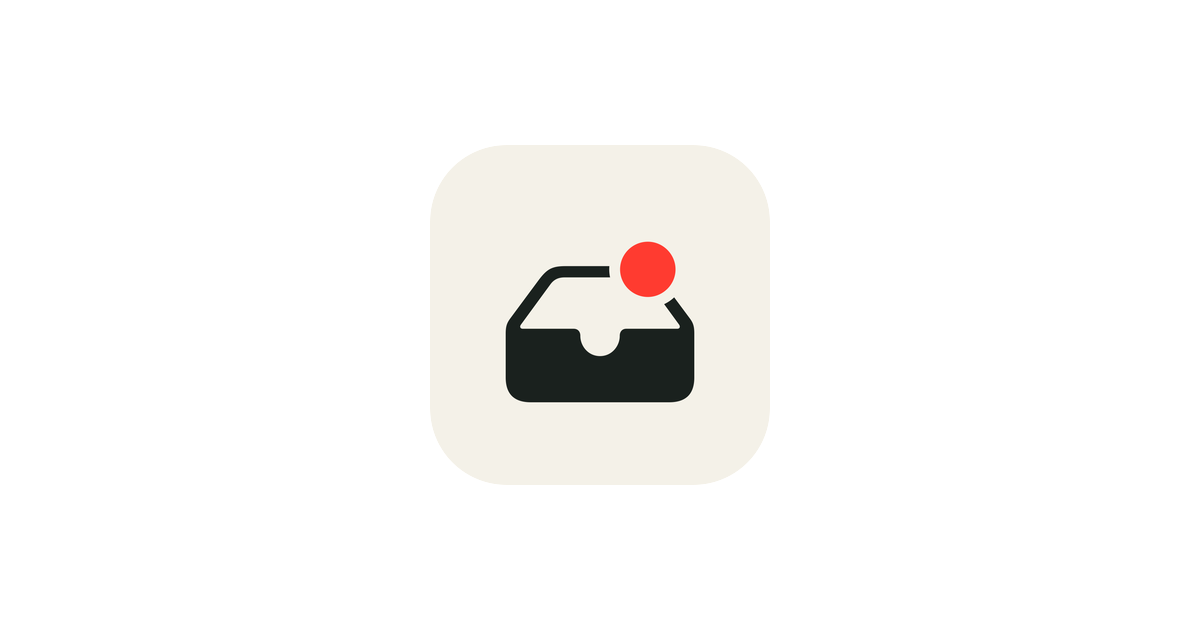
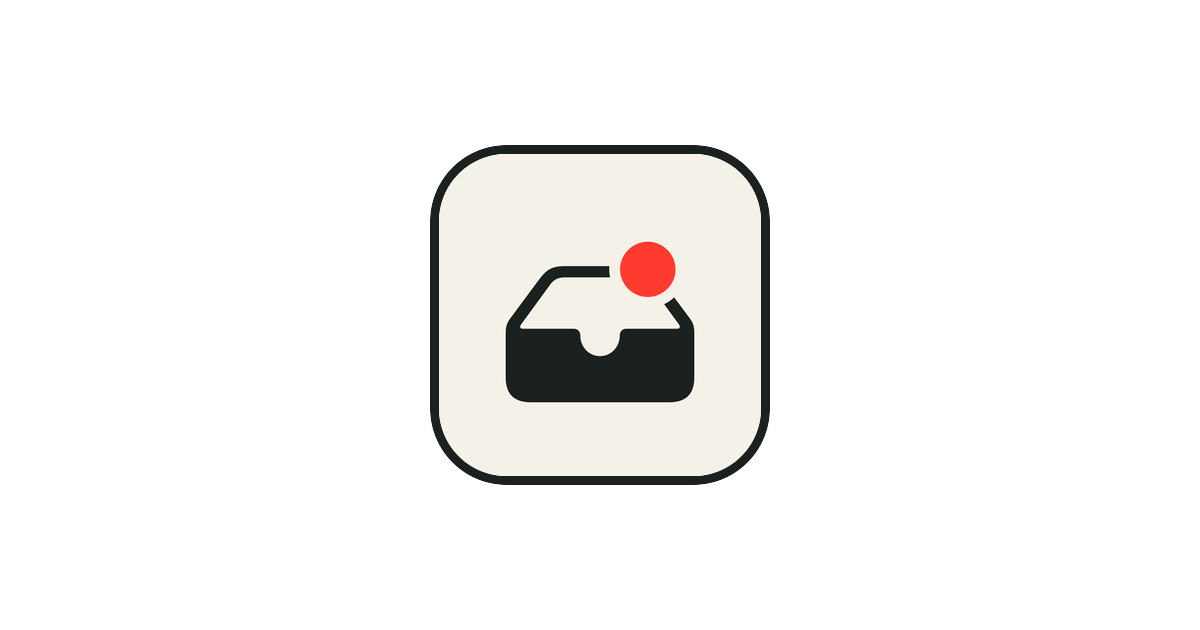
fixes

Changed region(s): [[0.4008, 0.2714, 0.6475, 0.7841], [0.37, 0.2111, 0.6167, 0.3016], [0.3392, 0.3016, 0.4008, 0.754]]

diff --git a/karui.html b/karui.html
@@ -14,8 +14,8 @@
   <meta property="og:url" content="https://karui.jp/">
   <meta property="og:site_name" content="Karui">
   <meta property="og:description" content="Runs privately and entirely on your device using Apple Intelligence." data-label-en="Runs privately and entirely on your device using Apple Intelligence." data-label-ja="Apple Intelligenceを使い、完全にデバイス上でプライベートに動作します。">
-  <meta property="og:image" content="https://karui.jp/assets/karui-social.png?v=4">
-  <meta property="og:image:secure_url" content="https://karui.jp/assets/karui-social.png?v=4">
+  <meta property="og:image" content="https://karui.jp/assets/karui-social.png?v=5">
+  <meta property="og:image:secure_url" content="https://karui.jp/assets/karui-social.png?v=5">
   <meta property="og:image:type" content="image/png">
   <meta property="og:image:width" content="1200">
   <meta property="og:image:height" content="630">
@@ -23,7 +23,7 @@
   <meta name="twitter:card" content="summary_large_image">
   <meta name="twitter:title" content="Silence unwanted notifications. Reveal unsent messages." data-label-en="Silence unwanted notifications. Reveal unsent messages." data-label-ja="不要な通知を消音。送信されなかったメッセージを確認。">
   <meta name="twitter:description" content="Runs privately and entirely on your device using Apple Intelligence." data-label-en="Runs privately and entirely on your device using Apple Intelligence." data-label-ja="Apple Intelligenceを使い、完全にデバイス上でプライベートに動作します。">
-  <meta name="twitter:image" content="https://karui.jp/assets/karui-social.png?v=4">
+  <meta name="twitter:image" content="https://karui.jp/assets/karui-social.png?v=5">
   <meta name="twitter:image:alt" content="Karui with the message Silence unwanted notifications. Reveal unsent messages." data-label-en="Karui with the message Silence unwanted notifications. Reveal unsent messages." data-label-ja="「不要な通知を消音。送信されなかったメッセージを確認。」というメッセージを添えたKaruiのプレビュー">
   <style>
     :root {
@@ -39,7 +39,7 @@
 
     body.sasu-site { background: #fff; }
     .sasu-page { padding-top: 8pt; padding-bottom: 24pt; }
-    .karui-icon { border-radius: 12px; }
+    .karui-icon { box-sizing: border-box; border: 1px solid var(--karui-ink); border-radius: 12px; }
     .sasu-hero .download-link { margin-top: 9pt; }
     .karui-detail { padding: 6pt 0 5pt; }
     .karui-detail p { margin: 0; }

diff --git a/index.html b/index.html
@@ -5,6 +5,8 @@
   <meta charset="utf-8">
   <script src="https://challenges.cloudflare.com/turnstile/v0/api.js?render=explicit" async defer></script>
   <title>Justin Garcia — iOS and Speech AI Engineer in Tokyo</title>
+  <link rel="icon" href="assets/karui-favicon.png?v=1" type="image/png">
+  <link rel="shortcut icon" href="assets/karui-favicon.png?v=1" type="image/png">
   <link href='style.css?v=141' rel='stylesheet'>
   <style>
     /* Preview: Ume face, sized to the window title (About) */
@@ -259,7 +261,7 @@
                 data-browser-title-ja="Kehai"
                 aria-label="Open Kehai"
               >
-                <img class="stack-product-icon-compact stack-product-icon-bordered" src="assets/kehai-icon.png?v=2" alt="Kehai app icon">
+                <img class="stack-product-icon-bordered" src="assets/kehai-icon-home.png?v=1" alt="Kehai app icon">
               </a>
               <div class="stack-product-copy">
                 <strong class="stack-product-name">Kehai:</strong>
@@ -278,7 +280,7 @@
                 data-browser-title-ja="Karui"
                 aria-label="Open Karui"
               >
-                <img class="stack-product-icon-compact stack-product-icon-bordered" src="assets/karui-icon.png?v=2" alt="Karui app icon">
+                <img class="stack-product-icon-bordered" src="assets/karui-icon-home.png?v=1" alt="Karui app icon">
               </a>
               <div class="stack-product-copy">
                 <strong class="stack-product-name">Karui:</strong>
@@ -335,7 +337,7 @@
                 data-browser-title-ja="Yubi"
                 aria-label="Open Yubi"
               >
-                <img class="stack-product-icon-compact stack-product-icon-bordered" src="assets/yubi-icon.png?v=1" alt="Yubi app icon">
+                <img class="stack-product-icon-bordered" src="assets/yubi-icon.png?v=1" alt="Yubi app icon">
               </a>
               <div class="stack-product-copy">
                 <strong class="stack-product-name">Yubi:</strong>
@@ -354,7 +356,7 @@
                 data-browser-title-ja="Kotai"
                 aria-label="Open Kotai"
               >
-                <img class="stack-product-icon-compact stack-product-icon-bordered" src="assets/kotai-icon.png?v=10" alt="Kotai app icon">
+                <img class="stack-product-icon-bordered" src="assets/kotai-icon.png?v=10" alt="Kotai app icon">
               </a>
               <div class="stack-product-copy">
                 <strong class="stack-product-name">Kotai:</strong>

diff --git a/style.css b/style.css
@@ -3566,12 +3566,9 @@ html[data-theme="classic"] .recent-updates-button[aria-pressed="true"]:hover {
 
 
 
-html body.home-page .stack-product-button img.stack-product-icon-compact {
-  width: 38px;
-  height: 38px;
-}
-
 html body.home-page .stack-product-button img.stack-product-icon-bordered {
   box-sizing: border-box;
+  width: 44px;
+  height: 44px;
   border: 1px solid #000;
 }
